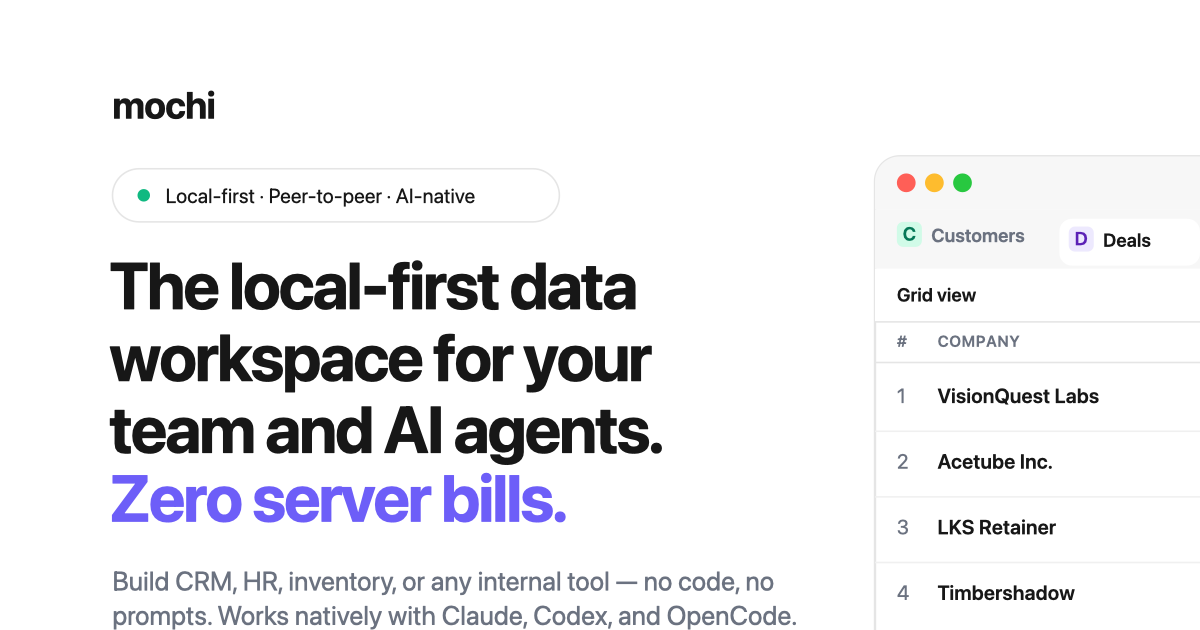
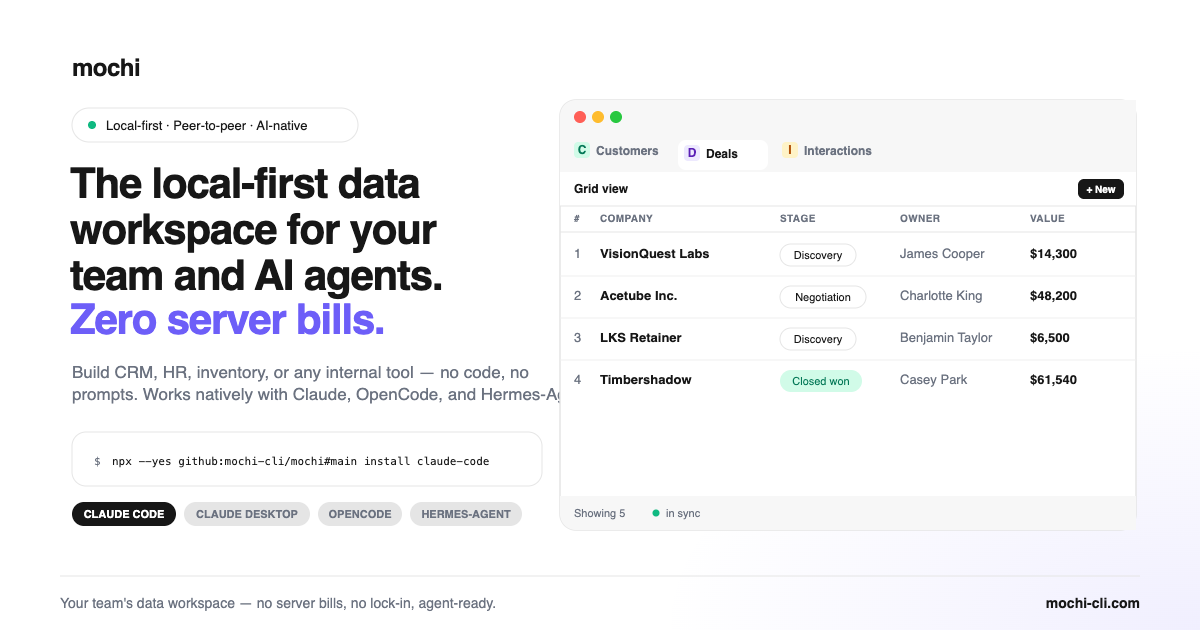
Update install command to #main ref, remove Workflow trust strip, fix card width bug
- Point every install command at github:mochi-cli/mochi#main (was pinned to #v0.2.20) across EngineProvider, SuccessClient, CTASection, POLAR_PRODUCT_DESCRIPTION.md, and the OG/product SVGs+PNGs
- Simplify the "Meet Mochi" paragraph to the new copy without the old duplicate sentence
- Fix Workflow step cards not being equal width/height (long install command text was forcing card 1 wider via implicit flex min-width)
- Remove the redundant trust strip under the Workflow steps

diff --git a/src/components/Workflow.tsx b/src/components/Workflow.tsx
@@ -6,19 +6,12 @@ import { useLang } from "./LanguageProvider";
 import { useEngine } from "./EngineProvider";
 import { Card } from "@/components/ui/card";
 import { Button } from "@/components/ui/button";
-import { Copy, Check, Download, LayoutGrid, Zap, Lock, RefreshCw, ShieldCheck, Code2 } from "lucide-react";
+import { Copy, Check, Download, LayoutGrid, Zap } from "lucide-react";
 
 const stepMeta = [
-  { n: "01", cmd: "npx @mochi-cli/mochi init --kit all", icon: Download, tone: "violet" as const }, // overridden per selection
+  { n: "01", cmd: "", icon: Download, tone: "violet" as const }, // overridden per selection
   { n: "02", cmd: '"Hey Mochi create profile"', icon: LayoutGrid, tone: "violet" as const },
   { n: "03", cmd: '"Hey mochi create CRM"', icon: Zap, tone: "brand" as const },
-];
-
-const TRUST = [
-  { icon: Lock, title: "Local-first by default", desc: "Your data stays on your devices." },
-  { icon: RefreshCw, title: "Peer-to-peer sync", desc: "Works offline. Changes sync when you're back." },
-  { icon: ShieldCheck, title: "Private & secure", desc: "End-to-end encrypted. You own your data." },
-  { icon: Code2, title: "Open & extensible", desc: "Build with APIs, MCP, and your favorite tools." },
 ];
 
 function CopyableCommand({ text }: { text: string }) {
@@ -29,8 +22,8 @@ function CopyableCommand({ text }: { text: string }) {
     setTimeout(() => setCopied(false), 2000);
   };
   return (
-    <div className="mono mt-6 flex items-center justify-between gap-2 rounded-xl border border-border bg-secondary/60 px-3 py-2 text-[12px] text-foreground">
-      <span className="truncate">{text}</span>
+    <div className="mono mt-6 flex items-center justify-between gap-2 rounded-xl border border-border bg-secondary/60 px-3 py-2 text-[12px] text-foreground [overflow-wrap:anywhere]">
+      <span className="min-w-0 flex-1 truncate">{text}</span>
       <Button
         variant="ghost"
         size="icon-sm"
@@ -60,7 +53,7 @@ function Connector() {
 
 export default function Workflow() {
   const { m } = useLang();
-  const { kitValue } = useEngine();
+  const { installCommand } = useEngine();
   return (
     <section id="workflow" className="relative border-b border-border">
       <div className="relative mx-auto max-w-6xl px-6 py-20 md:py-28">
@@ -77,51 +70,41 @@ export default function Workflow() {
         <div className="flex flex-col gap-5 md:flex-row md:items-stretch">
           {stepMeta.map((s, i) => (
             <Fragment key={s.n}>
-              <Reveal className="md:flex-1" delay={i * 100}>
-                <Card className="h-full p-7">
+              <Reveal className="min-w-0 md:flex-1" delay={i * 100}>
+                <Card className="flex h-full min-w-0 flex-col p-7">
                   <div className="flex items-center justify-between">
-                    <span className="flex h-9 w-9 items-center justify-center rounded-full bg-violet text-sm font-semibold text-violet-foreground">
-                      {i + 1}
-                    </span>
+                    <div className="flex items-center gap-2.5">
+                      <span className="flex h-9 w-9 flex-none items-center justify-center rounded-full bg-violet text-sm font-semibold text-violet-foreground">
+                        {i + 1}
+                      </span>
+                      <span
+                        className={`flex h-9 w-9 flex-none items-center justify-center rounded-xl ${
+                          s.tone === "brand" ? "bg-brand-soft text-brand-soft-foreground" : "bg-violet-soft text-violet-soft-foreground"
+                        }`}
+                      >
+                        <s.icon className="h-4.5 w-4.5" />
+                      </span>
+                    </div>
                     <span className="text-[11px] font-semibold uppercase tracking-[0.08em] text-violet">Step {s.n}</span>
                   </div>
-                  <span
-                    className={`mt-5 flex h-10 w-10 items-center justify-center rounded-xl ${
-                      s.tone === "brand" ? "bg-brand-soft text-brand-soft-foreground" : "bg-violet-soft text-violet-soft-foreground"
-                    }`}
-                  >
-                    <s.icon className="h-5 w-5" />
-                  </span>
-                  <h3 className="mt-4 text-xl font-semibold tracking-tight text-foreground">
-                    {m.flow.steps[i].title}
-                  </h3>
-                  <p className="mt-2 text-sm leading-relaxed text-muted-foreground">
-                    {m.flow.steps[i].desc}
-                  </p>
-                  <CopyableCommand text={i === 0 ? `npx @mochi-cli/mochi init ${kitValue}` : s.cmd} />
+                  {/* grows to fill the leftover space so every card's command
+                      chip lands on the same baseline, no matter how much the
+                      title/description wrap */}
+                  <div className="flex-1">
+                    <h3 className="mt-5 text-xl font-semibold tracking-tight text-foreground">
+                      {m.flow.steps[i].title}
+                    </h3>
+                    <p className="mt-2 text-sm leading-relaxed text-muted-foreground">
+                      {m.flow.steps[i].desc}
+                    </p>
+                  </div>
+                  <CopyableCommand text={i === 0 ? installCommand : s.cmd} />
                 </Card>
               </Reveal>
               {i < stepMeta.length - 1 && <Connector />}
             </Fragment>
           ))}
         </div>
-
-        {/* trust strip — the four claims that matter most, right where the CTA follows */}
-        <Reveal>
-          <div className="mt-6 flex flex-col divide-y divide-border rounded-3xl border border-border bg-card sm:grid sm:grid-cols-2 sm:divide-x sm:divide-y-0 lg:grid-cols-4">
-            {TRUST.map((t) => (
-              <div key={t.title} className="flex items-start gap-3 p-6">
-                <span className="flex h-9 w-9 flex-none items-center justify-center rounded-xl bg-violet-soft text-violet-soft-foreground">
-                  <t.icon className="h-4 w-4" />
-                </span>
-                <div>
-                  <div className="text-sm font-semibold text-foreground">{t.title}</div>
-                  <p className="mt-1 text-[13px] leading-relaxed text-muted-foreground">{t.desc}</p>
-                </div>
-              </div>
-            ))}
-          </div>
-        </Reveal>
       </div>
     </section>
   );

diff --git a/src/components/EngineProvider.tsx b/src/components/EngineProvider.tsx
@@ -2,35 +2,42 @@
 
 import React, { createContext, useContext, useState } from "react";
 
+export const MOCHI_VERSION = "main";
+
+export interface Engine {
+  slug: string;
+  label: string;
+}
+
+// The real install targets Mochi supports — one `install <slug>` per agent.
+export const ALL_ENGINES: Engine[] = [
+  { slug: "claude-code", label: "CLAUDE CODE" },
+  { slug: "claude-desktop", label: "CLAUDE DESKTOP" },
+  { slug: "opencode", label: "OPENCODE" },
+  { slug: "hermes-agent", label: "HERMES-AGENT" },
+];
+
 interface EngineContextType {
-  /** "ALL" or one of ALL_ENGINES — single-select, "ALL" by default */
-  selectedEngine: string;
-  selectEngine: (engine: string) => void;
-  /** lowercase value used in the install command, e.g. "all" or "claude" */
-  kitValue: string;
+  selectedEngine: Engine;
+  selectEngine: (slug: string) => void;
+  /** the exact command shown/copied, e.g. `npx --yes github:mochi-cli/mochi#v0.2.20 install claude-code` */
+  installCommand: string;
 }
 
 const EngineContext = createContext<EngineContextType | undefined>(undefined);
 
-export const ALL_ENGINES = [
-  "CLAUDE",
-  "CODEX",
-  "OPENCODE",
-  "HERMES-AGENT",
-  "OPENCLAW",
-] as const;
-
-export const ALL_OPTION = "ALL";
-
 export function EngineProvider({ children }: { children: React.ReactNode }) {
-  const [selectedEngine, setSelectedEngine] = useState<string>(ALL_OPTION);
+  const [selectedEngine, setSelectedEngine] = useState<Engine>(ALL_ENGINES[0]);
 
-  const selectEngine = (engine: string) => setSelectedEngine(engine);
+  const selectEngine = (slug: string) => {
+    const engine = ALL_ENGINES.find((e) => e.slug === slug);
+    if (engine) setSelectedEngine(engine);
+  };
 
-  const kitValue = selectedEngine === ALL_OPTION ? "all" : selectedEngine.toLowerCase();
+  const installCommand = `npx --yes github:mochi-cli/mochi#${MOCHI_VERSION} install ${selectedEngine.slug}`;
 
   return (
-    <EngineContext.Provider value={{ selectedEngine, selectEngine, kitValue }}>
+    <EngineContext.Provider value={{ selectedEngine, selectEngine, installCommand }}>
       {children}
     </EngineContext.Provider>
   );

diff --git a/src/components/Hero.tsx b/src/components/Hero.tsx
@@ -3,7 +3,7 @@
 import { useState } from "react";
 import { Check, Copy, Lock, Play, RefreshCw, ShieldCheck } from "lucide-react";
 import { useLang } from "./LanguageProvider";
-import { useEngine, ALL_ENGINES, ALL_OPTION } from "./EngineProvider";
+import { useEngine, ALL_ENGINES } from "./EngineProvider";
 import { Button } from "@/components/ui/button";
 import HeroStage from "./HeroStage";
 
@@ -25,10 +25,9 @@ function splitHeadline(headline: string) {
 
 export default function Hero() {
   const { m } = useLang();
-  const { selectedEngine, selectEngine, kitValue } = useEngine();
+  const { selectedEngine, selectEngine, installCommand } = useEngine();
   const [copied, setCopied] = useState(false);
 
-  const installCommand = `npx @mochi-cli/mochi init ${kitValue}`;
   const { lead, tail } = splitHeadline(m.hero.headline);
 
   const handleCopy = () => {
@@ -74,12 +73,12 @@ export default function Hero() {
           </div>
 
           <div className="mt-3.5 flex flex-wrap items-center justify-center gap-1.5 lg:justify-start">
-            {[ALL_OPTION, ...ALL_ENGINES].map((a) => {
-              const isSelected = selectedEngine === a;
+            {ALL_ENGINES.map((engine) => {
+              const isSelected = selectedEngine.slug === engine.slug;
               return (
                 <button
-                  key={a}
-                  onClick={() => selectEngine(a)}
+                  key={engine.slug}
+                  onClick={() => selectEngine(engine.slug)}
                   aria-pressed={isSelected}
                   className={`rounded-full border px-2 py-0.5 text-[10px] font-medium transition-colors ${
                     isSelected
@@ -87,7 +86,7 @@ export default function Hero() {
                       : "border-border bg-background/60 text-muted-foreground hover:text-foreground"
                   }`}
                 >
-                  {a}
+                  {engine.label}
                 </button>
               );
             })}

diff --git a/src/lib/i18n.ts b/src/lib/i18n.ts
@@ -229,13 +229,13 @@ const en: Messages = {
 },
   hero: {
     headline: "The local-first data workspace for your team and AI agents. Zero server bills.",
-    sub: "Build CRM, HR, inventory, or any internal tool — no code, no prompts, no monthly server fees. Runs on your laptop, syncs peer-to-peer, and works natively with Claude, Codex, and OpenCode.",
+    sub: "Build CRM, HR, inventory, or any internal tool — no code, no prompts, no monthly server fees. Runs on your laptop, syncs peer-to-peer, and works natively with Claude, OpenCode, and Hermes-Agent.",
   },
   feat: {
     title: "One workspace for your team and your AI agents",
     items: [
       {
-        title: "Chat with Claude, Codex & OpenCode",
+        title: "Chat with Claude, OpenCode & Hermes-Agent",
         desc: "AI agents operate your data through typed MCP tools — safe, auditable, and Git-backed. Every change is diff-reviewable.",
       },
       {
@@ -291,7 +291,7 @@ const en: Messages = {
   },
   char: {
     title: "Meet Mochi",
-    sub: "A small, round, always-ready sidekick — standing between your team, your AI agents, and your data. Mochi never decides for you; it just makes every data operation simple, safe, and easy to track.",
+    sub: "Mochi is a local-first, AI-native data assistant. It simplifies, secures, and tracks data operations between your team and AI agents, eliminating the hassle of tacked-on AI in spreadsheets or monthly cloud storage fees.",
   },
   price: {
     title: "Choose your plan",

diff --git a/src/app/success/SuccessClient.tsx b/src/app/success/SuccessClient.tsx
@@ -5,10 +5,12 @@ import { useSearchParams } from "next/navigation";
 import Link from "next/link";
 import { CheckCircle2 } from "lucide-react";
 import { useLang } from "@/components/LanguageProvider";
+import { useEngine } from "@/components/EngineProvider";
 import { Button } from "@/components/ui/button";
 
 function SuccessContent() {
   const { m } = useLang();
+  const { installCommand } = useEngine();
   const searchParams = useSearchParams();
   const checkoutId = searchParams.get("checkout_id");
 
@@ -47,7 +49,7 @@ function SuccessContent() {
         </div>
 
         <div className="mono mt-8 inline-flex h-11 max-w-full items-center gap-3 overflow-x-auto whitespace-nowrap rounded-full border border-border bg-card px-5 text-sm text-foreground/90">
-          <span className="text-muted-foreground">$</span> npx @mochi-cli/mochi init --kit all
+          <span className="text-muted-foreground">$</span> {installCommand}
         </div>
 
         <p className="mt-8 text-xs text-muted-foreground">{m.success.note}</p>

diff --git a/src/components/CTASection.tsx b/src/components/CTASection.tsx
@@ -2,10 +2,12 @@
 
 import Reveal from "./Reveal";
 import { useLang } from "./LanguageProvider";
+import { useEngine } from "./EngineProvider";
 import { Button } from "@/components/ui/button";
 
 export default function CTASection() {
   const { m } = useLang();
+  const { installCommand } = useEngine();
   return (
     <section className="border-b border-border">
       <div className="mx-auto max-w-6xl px-6 py-20 md:py-24">
@@ -24,7 +26,7 @@ export default function CTASection() {
                   Get started →
                 </Button>
                 <div className="mono flex h-12 w-full max-w-full items-center gap-3 overflow-x-auto whitespace-nowrap rounded-full border border-border bg-card px-5 text-sm text-foreground/90 sm:w-auto">
-                  <span className="text-muted-foreground">$</span> sudo npx @mochi-cli/mochi init --kit all
+                  <span className="text-muted-foreground">$</span> {installCommand}
                 </div>
               </div>
             </div>

diff --git a/src/components/MascotIntro.tsx b/src/components/MascotIntro.tsx
@@ -98,8 +98,7 @@ export default function MascotIntro() {
             {m.char.title}
           </h2>
           <p className="mt-4 text-base leading-relaxed text-muted-foreground">
-            {m.char.sub} Spreadsheets bolt AI on top, and cloud databases charge you monthly to
-            store data you already own — Mochi was built agent-native and local-first from the start.
+            {m.char.sub}
           </p>
         </Reveal>
 

diff --git a/POLAR_PRODUCT_DESCRIPTION.md b/POLAR_PRODUCT_DESCRIPTION.md
@@ -1,11 +1,11 @@
 # Mochi Pro — the local-first data workspace for your team and AI agents
 
-Build CRM, HR, inventory, or any internal tool — no code, no prompts, no monthly server fees. Mochi runs on your laptop, syncs peer-to-peer, and works natively with **Claude, Codex, OpenCode, Hermes-Agent, and OpenClaw**.
+Build CRM, HR, inventory, or any internal tool — no code, no prompts, no monthly server fees. Mochi runs on your laptop, syncs peer-to-peer, and works natively with **Claude Code, Claude Desktop, OpenCode, and Hermes-Agent**.
 
 One-time payment. Pay once, use forever — no subscription, ever.
 
 ```
-npx @mochi-cli/mochi init all
+npx --yes github:mochi-cli/mochi#main install claude-code
 ```
 
 ## Why Mochi
@@ -32,10 +32,15 @@ Spreadsheets bolt AI on top as an afterthought. Cloud databases charge you month
 
 ## Get started
 
+Install for whichever agent you use:
+
 ```
-npx @mochi-cli/mochi init all
+npx --yes github:mochi-cli/mochi#main install claude-code
+npx --yes github:mochi-cli/mochi#main install claude-desktop
+npx --yes github:mochi-cli/mochi#main install opencode
+npx --yes github:mochi-cli/mochi#main install hermes-agent
 ```
 
-Pick a template — or describe your own schema in plain language — and start talking to your data through Claude, Codex, or OpenCode.
+Pick a template — or describe your own schema in plain language — and start talking to your data through Claude or OpenCode.
 
 Questions, bugs, or feature requests: [github.com/mochi-cli/mochi](https://github.com/mochi-cli/mochi)
